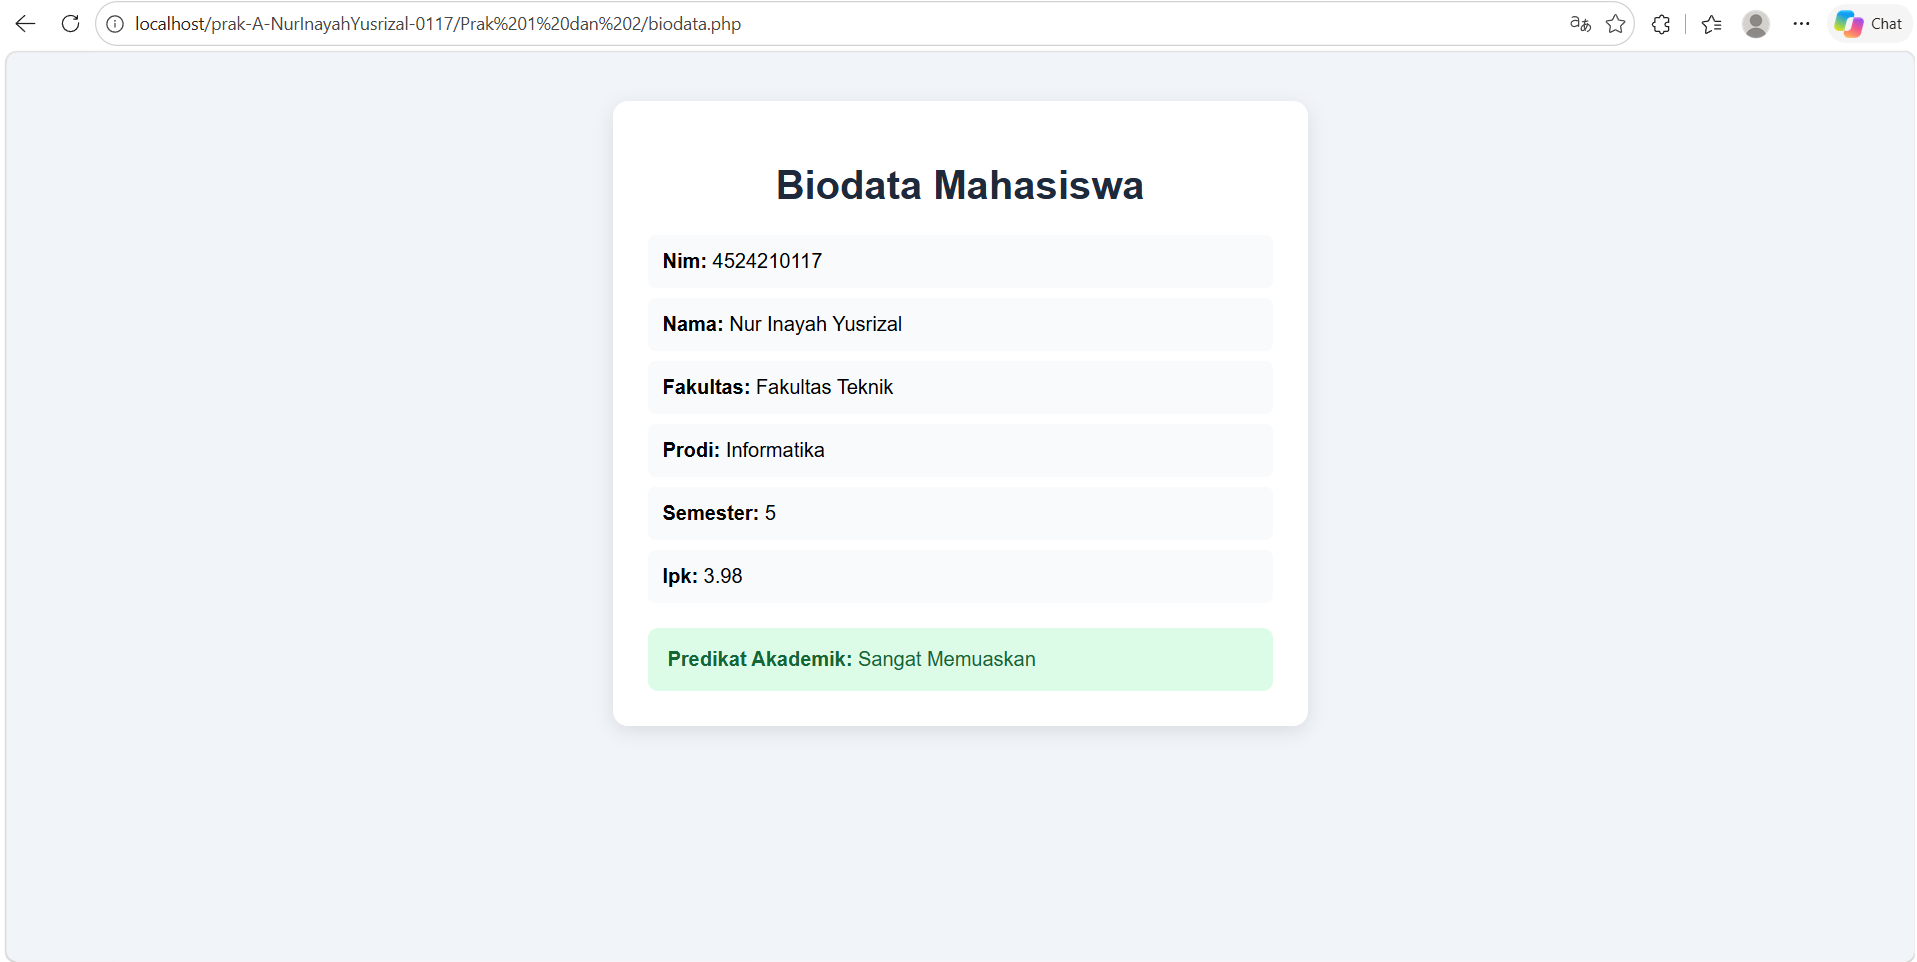
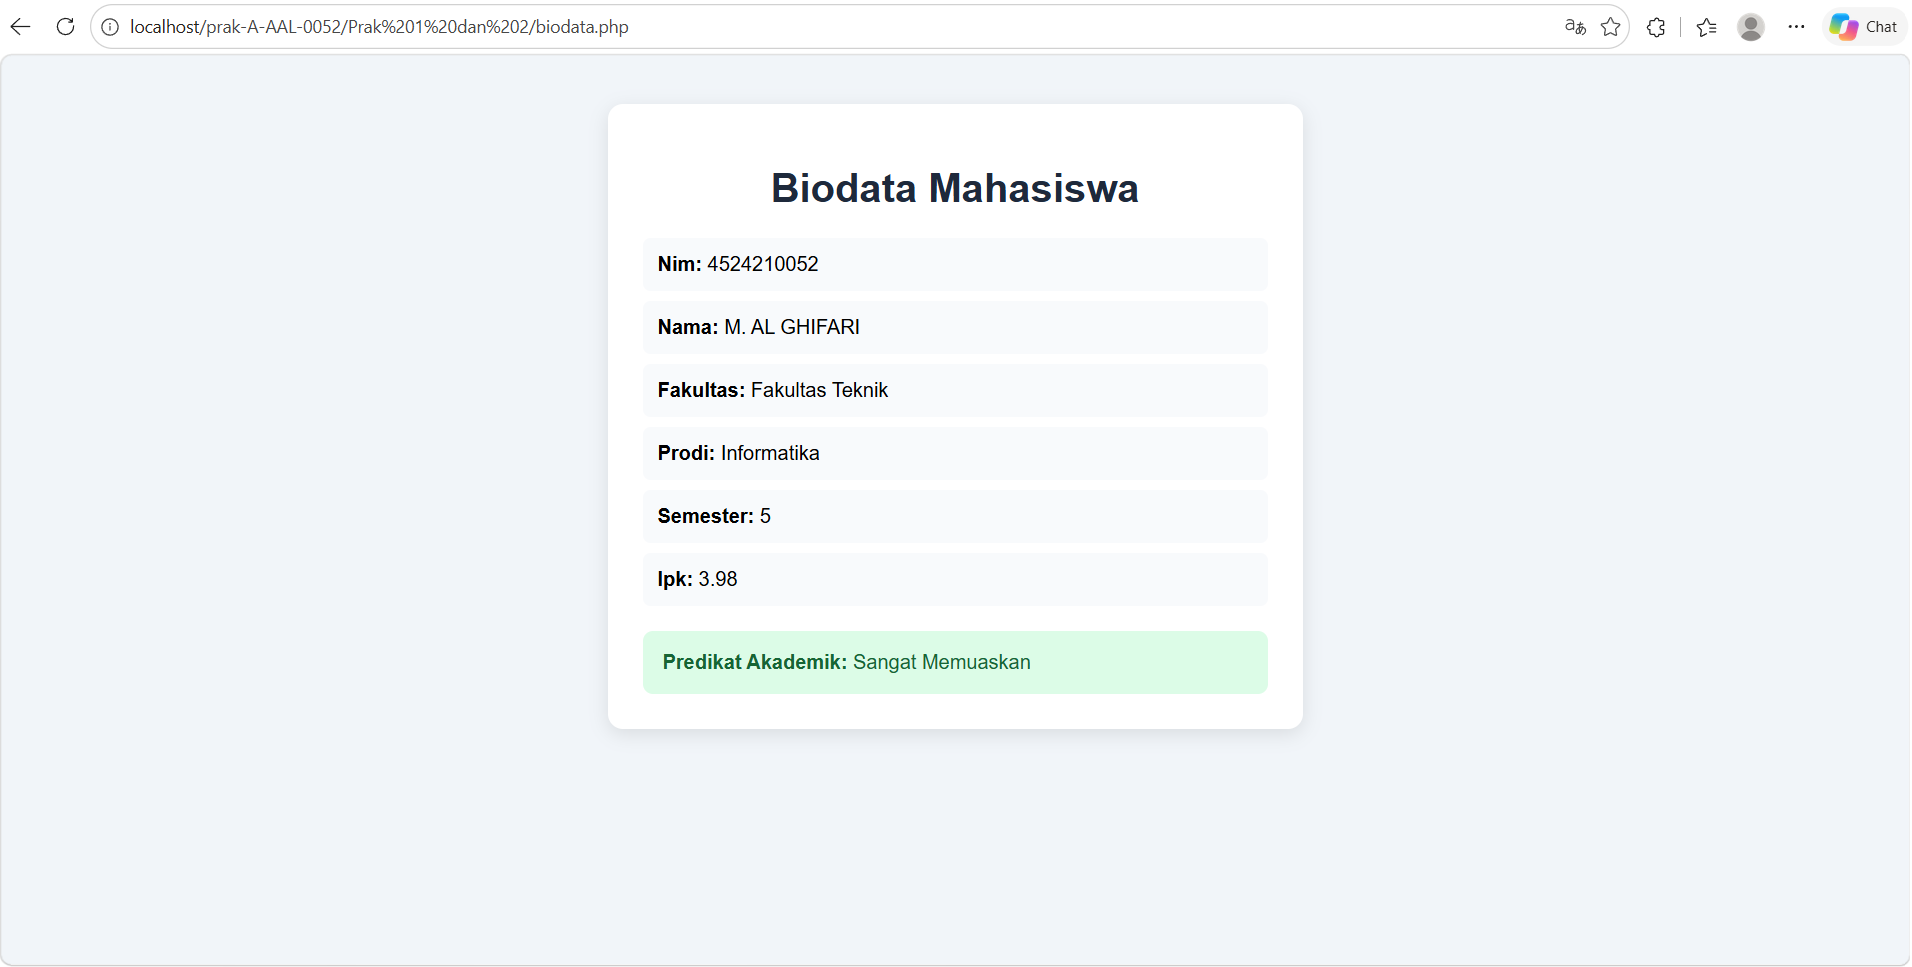
change pict

diff --git a/Prak 1 dan 2/biodata.php b/Prak 1 dan 2/biodata.php
@@ -9,8 +9,8 @@ function statusKelulusan(float $ipk): string
 }
 
 $mahasiswa = [
-    'nim' => '4524210117',
-    'nama' => 'Nur Inayah Yusrizal',
+    'nim' => '4524210052',
+    'nama' => 'M. AL GHIFARI',
     'fakultas' => 'Fakultas Teknik',
     'prodi' => 'Informatika',
     'semester' => 5,
